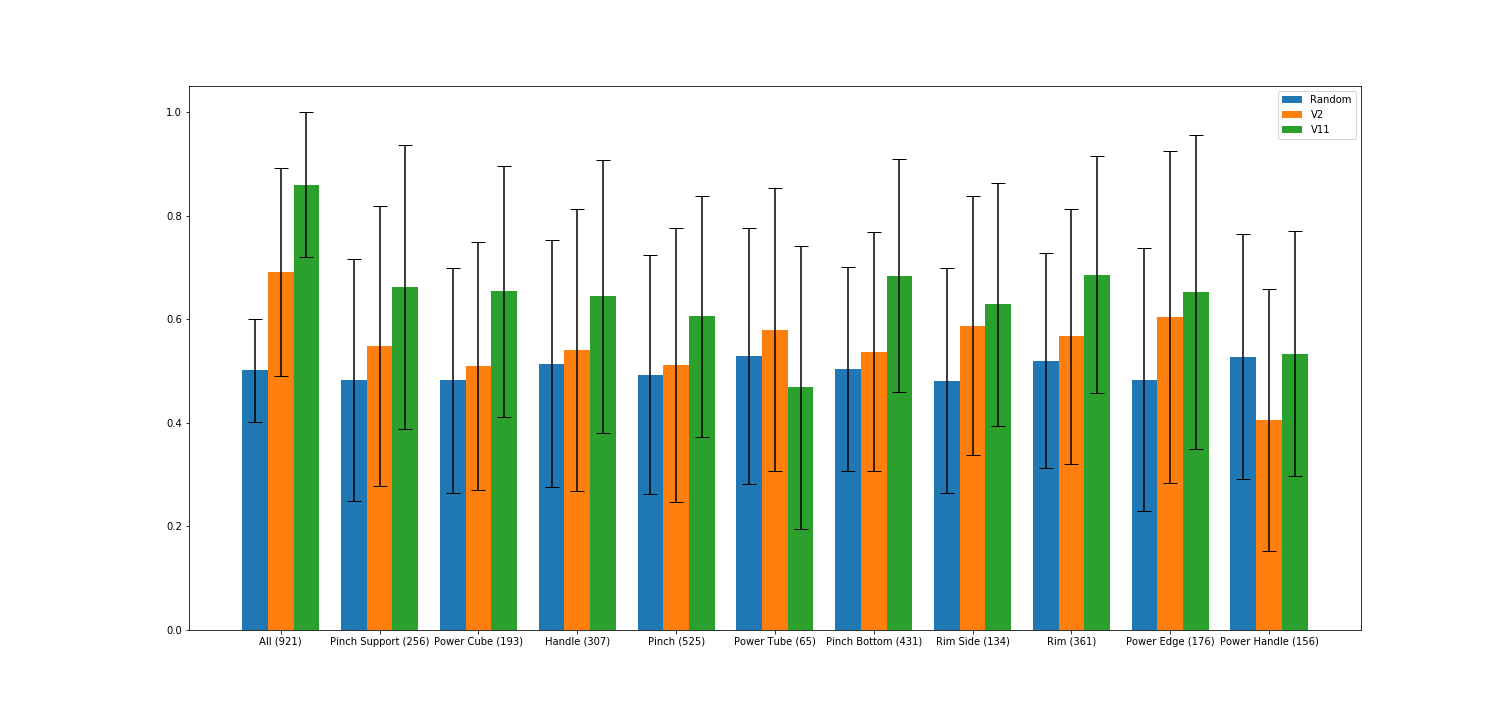
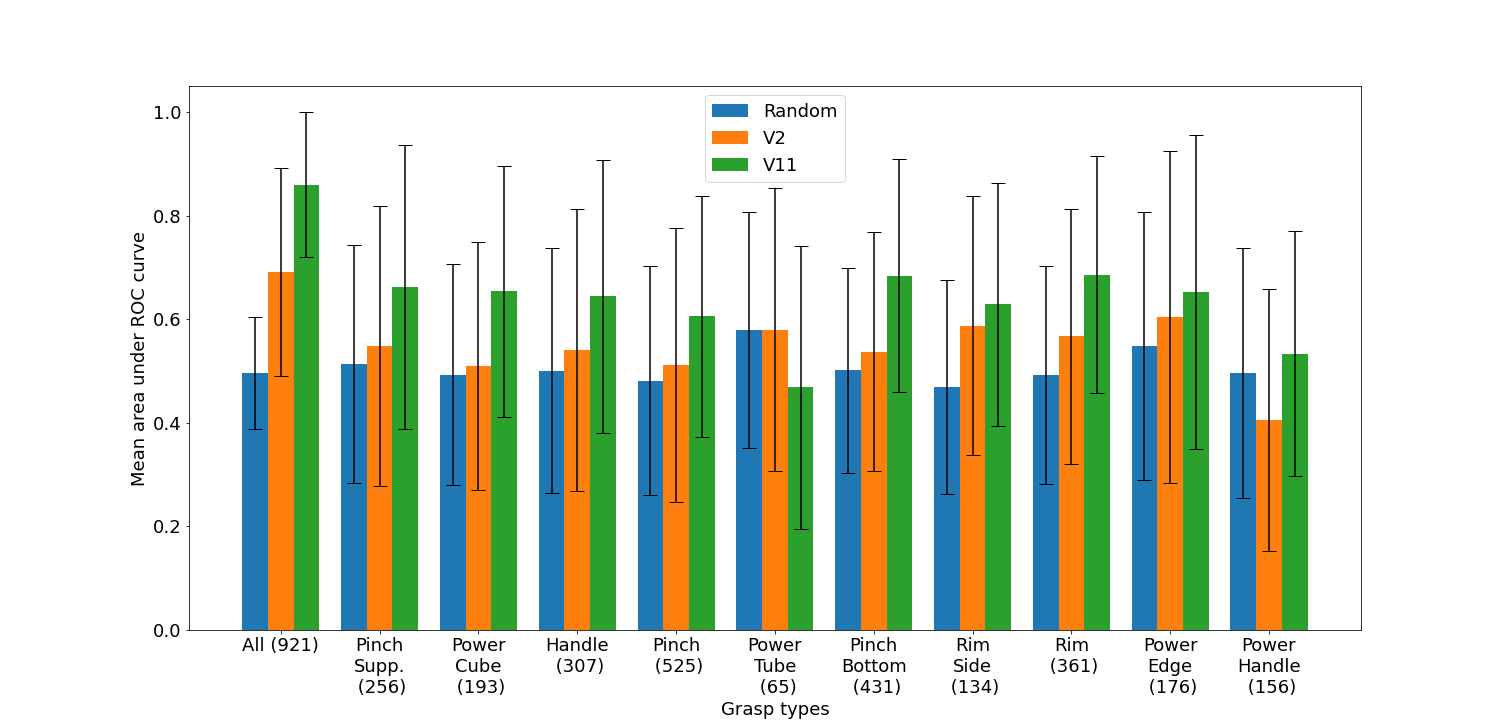
plot changes

diff --git a/extendedanalysis.tex b/extendedanalysis.tex
@@ -7,7 +7,7 @@ In this section, we perform a deep dive into the results of V11, specifically th
 
 \begin{figure}
 \centering 
-\includegraphics[width=0.6\columnwidth]{images/post-analysis/Grasp_type_vs_success_prob.png}
+\includegraphics[width=0.5\columnwidth]{images/post-analysis/Grasp_type_vs_success_prob.png}
 \caption{Grasp type vs. success probability.}
 \label{fig:post2}
 \end{figure}
@@ -21,7 +21,7 @@ An interesting question is whether the grasp success probabilities EM3 yields ar
 
 \begin{figure}
 \centering
-\includegraphics[width=0.98\columnwidth]{images/post-analysis/V11_pred_success_vs_success.png}
+\includegraphics[width=1.02\columnwidth]{images/post-analysis/V11_pred_success_vs_success.png}
 \caption{Predicted success probability vs actual success probability for V11. The red bars indicate failures, and green bars show successes. The grasps are ordered along the horizontal axis by predicted success probabilities by EM3. The blue line shows the (actual) average success rate of grasps in every bin, while the vertical length of the shaded blue region around each point on the line correlates with the standard deviation of the success rates in nearby bins. Note that when there are not enough grasps to estimate rates, as is the case for Handle and Power Tube grasps, the uncertainty of the estimates increase significantly.}
 \label{fig:calibrate}
 \end{figure}
@@ -41,7 +41,27 @@ V11, which combines the generative model GM2 with the evaluative model EM3, yiel
 %\label{fig:post6}
 %\end{figure}
 
-TODO: RE-PLOTTING THE FIGURE
+\begin{table}[h]
+\small
+\centering
+\begin{tabular}{llll}
+\hline
+Grasp Type & Random Rank. & V2 Rank.  & V11 Rank.\\ \hline
+Pinch Support & $\mathbf{97.4} \pm 82.8$  & $\mathbf{120.3} \pm 75.9 [\mathbf{+22.9}]$ & $\mathbf{111.9} \pm 78.6 [\mathbf{+14.5}]$ \\ \hline
+Power Cube & $\mathbf{135.7} \pm 100.3$  & $\mathbf{162.4} \pm 92.1 [\mathbf{+26.7}]$ & $\mathbf{132.9} \pm 83.1 [\mathbf{-2.8}]$ \\ \hline
+Handle & $\mathbf{97.2} \pm 83.3$  & $\mathbf{156.5} \pm 97.7 [\mathbf{+59.3}]$ & $\mathbf{149.5} \pm 86.2 [\mathbf{+52.3}]$ \\ \hline
+Pinch & $\mathbf{87.1} \pm 72.7$  & $\mathbf{111.4} \pm 71.7 [\mathbf{+24.3}]$ & $\mathbf{104.5 }\pm 63.6 [\mathbf{+17.4}]$ \\ \hline
+Power Tube & $\mathbf{121.0} \pm 92.5$  & $\mathbf{213.4} \pm 107.6 [\mathbf{+92.4}]$ & $\mathbf{118.7} \pm 82.6 [\mathbf{-2.3}]$ \\ \hline
+Pinch Bottom & $\mathbf{89.8} \pm 69.5$  & $\mathbf{71.0} \pm 60.4 [\mathbf{-18.8}]$ & $\mathbf{75.6} \pm 77.9 [\mathbf{-14.2}]$ \\ \hline
+Rim Side & $\mathbf{107.6} \pm 89.6$  & $\mathbf{91.6} \pm 69.2 [\mathbf{-16.0}]$ & $\mathbf{115.9} \pm 83.6 [\mathbf{+8.3}]$ \\ \hline
+Rim & $\mathbf{85.9} \pm 76.5$  & $\mathbf{61.5} \pm 54.6 [\mathbf{-24.4}]$ & $\mathbf{66.3} \pm 60.8 [\mathbf{-19.6}]$ \\ \hline
+Power Edge & $\mathbf{125.0} \pm 98.5$  & $\mathbf{102.9} \pm 81.7 [\mathbf{-22.1}]$ & $\mathbf{123.4} \pm 99.4 [\mathbf{-1.6}]$ \\ \hline
+Power Handle & $\mathbf{121.0} \pm 95.7$  & $\mathbf{216.1} \pm 106.3 [\mathbf{+95.1}]$ & $\mathbf{184.5} \pm 99.1 [\mathbf{+63.5}]$ \\ \hline
+\end{tabular}
+\caption{Changes in average grasp position per grasp type according to Random, V2 and V11 rankings.}
+\label{table:rankingchanges}
+\end{table}
+
 
 Figure~\ref{fig:post6} compares 3 different rankings (random, V2, V11), and plots the distribution of grasp types for each position in all rankings. The random ranking which are based on randomly assigned success probabilities, predictably, uniformly places all grasps at all positions, regardless of their type. V2, which is based on the grasp success likelihoods generated by GM2, favours successful grasp types such as Rim variations over unsuccessful ones such as Handle grasps. V11, based on the evaluative model EM3, acts similarly to V2. Interestingly, V2 and V11 appear to have similar ranking patterns, despite calculating the grasp success probabilities in entirely different ways. 
 
@@ -56,12 +76,12 @@ Figure~\ref{fig:post6} compares 3 different rankings (random, V2, V11), and plot
 \subsubsection{Does EM3 rank grasps within a grasp type?}
 \noindent
 
-The second hypothesis we have is that EM3 is learning to rank grasps within each grasp type, favouring grasp trajectories that are more likely to be successful over others. In order to test this hypothesis, we compared three different strategies above: random, V2, V11. In Figure~\ref{fig:post5}, we compare the the quality of the ranking of grasps within each grasp type. In order to compare rankings, a model's output score is used as the classification score in a binary classification problem (failure/success). The metric used to compare different models is the area under Receiver Operating Characteristics (ROC) curve. This metric is calculated for each scene, and averaged across all scenes in the test set. The left-most plot in Figure~\ref{fig:post5} shows that the overall ranking quality of V11 is better than V2 and random predictions across grasp types. Furthermore, V11 has the best overall within-type ranking for all grasp types except for Power Tube. This observation suggests that V11 not only leans on the grasp type information, but also learns to associate the object's geometry with the grasp trajectories to determine whether a grasp will be successful.
+The second hypothesis we have is that EM3 is learning to rank grasps within each grasp type, favouring grasp trajectories that are more likely to be successful over others. In order to test this hypothesis, we compared three different strategies above: random, V2, V11. In Figure~\ref{fig:post5}, we compare the the quality of the ranking of grasps within each grasp type. In order to compare rankings, a grasp's ranking, multiplied by -1, is used as the classification score in a binary classification problem (failure/success). The metric used to compare different models is the area under Receiver Operating Characteristics (ROC) curve. This metric is calculated for each scene, and averaged across all scenes in the test set. The left-most plot in Figure~\ref{fig:post5} shows that the overall ranking quality of V11 is better than V2 and random predictions across grasp types. Furthermore, V11 has the best overall within-type ranking for all grasp types except for Power Tube. This observation suggests that V11 not only leans on the grasp type information, but also learns to associate the object's geometry with the grasp trajectories to determine whether a grasp will be successful.
 
 \begin{figure}
 \centering
 \includegraphics[width=0.999\columnwidth]{images/post-analysis/Ranking_quality_mean_AUC.png}
-\caption{Within-type grasp ranking quality comparison of random, V2 and V11 predictions according to the Area-Under-Curve of Receiver Operatig Characteristics (AUC-ROC) metric. Higher score is better. V11 outperforms random and V2 except for Power Tube.}
+\caption{Within-type grasp ranking quality comparison of random, V2 and V11 predictions according to the Area-Under-Curve of Receiver Operating Characteristics (AUC-ROC) metric. Higher score is better. V11's ranking outperforms those of random and V2, except for Power Tube.}
 \label{fig:post5}
 \end{figure}
 

diff --git a/ijhr-aktas-20.tex b/ijhr-aktas-20.tex
@@ -78,12 +78,6 @@ chaozh1@hotmail.com}
 City, State ZIP/Zone, Country\\
 marekkopicki@gmail.com}
 
-\author{ALES LEONARDIS}
-
-\address{Group, Laboratory, Address\\
-City, State ZIP/Zone, Country\\
-alesleo@gmail.com}
-
 \author{JEREMY L. WYATT}
 
 \address{Group, Laboratory, Address\\
@@ -141,21 +135,21 @@ jeremy.l.wyatt@gmail.com}
 
 The authors gratefully acknowledge funding from the European Commission Funded project, PaCMan FP7-IST-600918.
 
-\appendix
+%\appendix
 
-\section{Data Efficient Learning of a Generative Grasp Model from Demonstration}
-
-%Describe, in new words, the method from IJRR.
-\input{generative} \label{section:generative}
-
-\section{Improved Generative Learning}
+%\section{Data Efficient Learning of a Generative Grasp Model from Demonstration}
 
 %Describe, in new words, the method from IJRR.
-\input{generative_improved} \label{section:generative_new}
+%\input{generative} \label{section:generative}
 
-\section{Additional Figures}
+%\section{Improved Generative Learning}
 
-\input{extra_figures} \label{section:extra_figures}
+%Describe, in new words, the method from IJRR.
+%\input{generative_improved} \label{section:generative_new}
+
+%\section{Additional Figures}
+
+%\input{extra_figures} \label{section:extra_figures}
 
 %%PLS. NOTE TEMPLATE HERE SHOWN FOR DIFFERENT STYLES FOR 
 %%TEXT IN JOURNALS, BOOKS, REVIEW VOLUME AND PROCS. ETC.
@@ -209,21 +203,7 @@ The authors gratefully acknowledge funding from the European Commission Funded p
 {{\bf Marek Kopicki} is a senior research engineer at Dyson. He has a MSc in physics from Adam Mickiewicz University (Poznan), a MSc in Advance Computer Science and Ph.D. in robotics at University of Birmingham in 2010. He has more than twelve years’ experience of developing algorithms and software for robot control and vision. These were used in  FP7 projects CogX, GeRT and PaCMan. He invented an adaptive grasping algorithm, for which he holds an international patent. He has published more than twenty-five refereed papers.\hfilneg}
 \end{minipage}} %close for parbox
 
-
 %FOURTH AUTHOR
-\vspace*{13pt}  
-\noindent%
-\parbox{5truein}{
-\begin{minipage}[b]{1truein}
-\centerline{{\psfig{file=images/bio/ales_bio,width=1in,height=1.25in,clip,keepaspectratio}}}
-\end{minipage}
-\hfill %to 2nd column
-\begin{minipage}[b]{3.85truein}
-{{\bf Ales Leonardis} is a Professor of Robotics at University of Birmingham. He is also an adjunct professor at the Faculty of Computer Science, Graz University of Technology. His research interests include robust and adaptive methods for computer vision, object and scene recognition and categorization, statistical visual learning, 3D object modeling, and biologically motivated vision. He is a fellow of the IAPR and a member of the IEEE and the IEEE Computer Society. \hfilneg}
-\end{minipage}} %close for parbox
-
-
-%FIFTH AUTHOR
 \vspace*{13pt}  
 \noindent%
 \parbox{5truein}{

diff --git a/experiments.tex b/experiments.tex
@@ -22,15 +22,15 @@ V2  & 40 & 81.6\% & V11 & 43  & 87.8\% \\
 
 \begin{figure}[t]
 \begin{center}
-\includegraphics[width=0.8\columnwidth]{plots/A6fA10s_vertical.png}
+\includegraphics[width=0.5\columnwidth]{plots/A6fA10s_vertical.png}
 \caption{V2 vs V11. This shows grasps from methods based on generative model GM2. The V2 grasps are shown in columns 1-2. The corresponding V11 grasps are shown in columns 3-4. These are the cases where V2 failed and V11 succeeded. \label{fig:v2fv11s}}
 \end{center}
 \end{figure}
 
 \begin{figure}[t]
 \begin{center}
-\includegraphics[width=0.8\columnwidth]{plots/A6fA10f_vertical.png}\\
-\includegraphics[width=0.8\columnwidth]{plots/A6sA10f_vertical.png}
+\includegraphics[width=0.5\columnwidth]{plots/A6fA10f_vertical.png}\\
+\includegraphics[width=0.5\columnwidth]{plots/A6sA10f_vertical.png}
 \caption{V2 vs V11. This shows grasps from methods based on generative model GM2. The V2 grasps are shown in columns 1-2. The corresponding V11 grasps are shown in columns 3-4. The top row shows the case where both failed. The bottom row shows the case where V2 succeeded and V11 failed. \label{fig:v2fsv11f}}
 \end{center}
 \end{figure}
